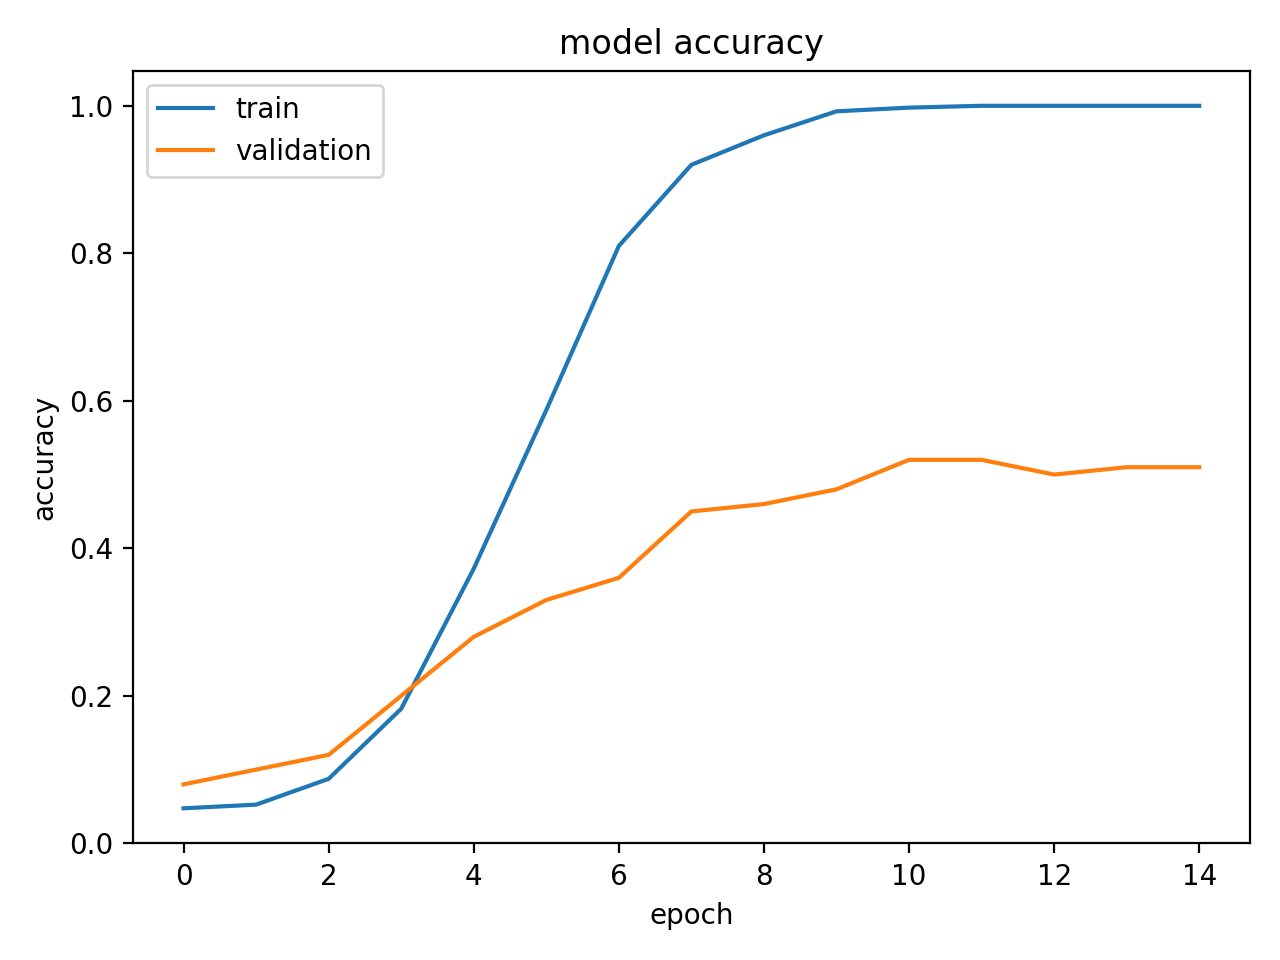
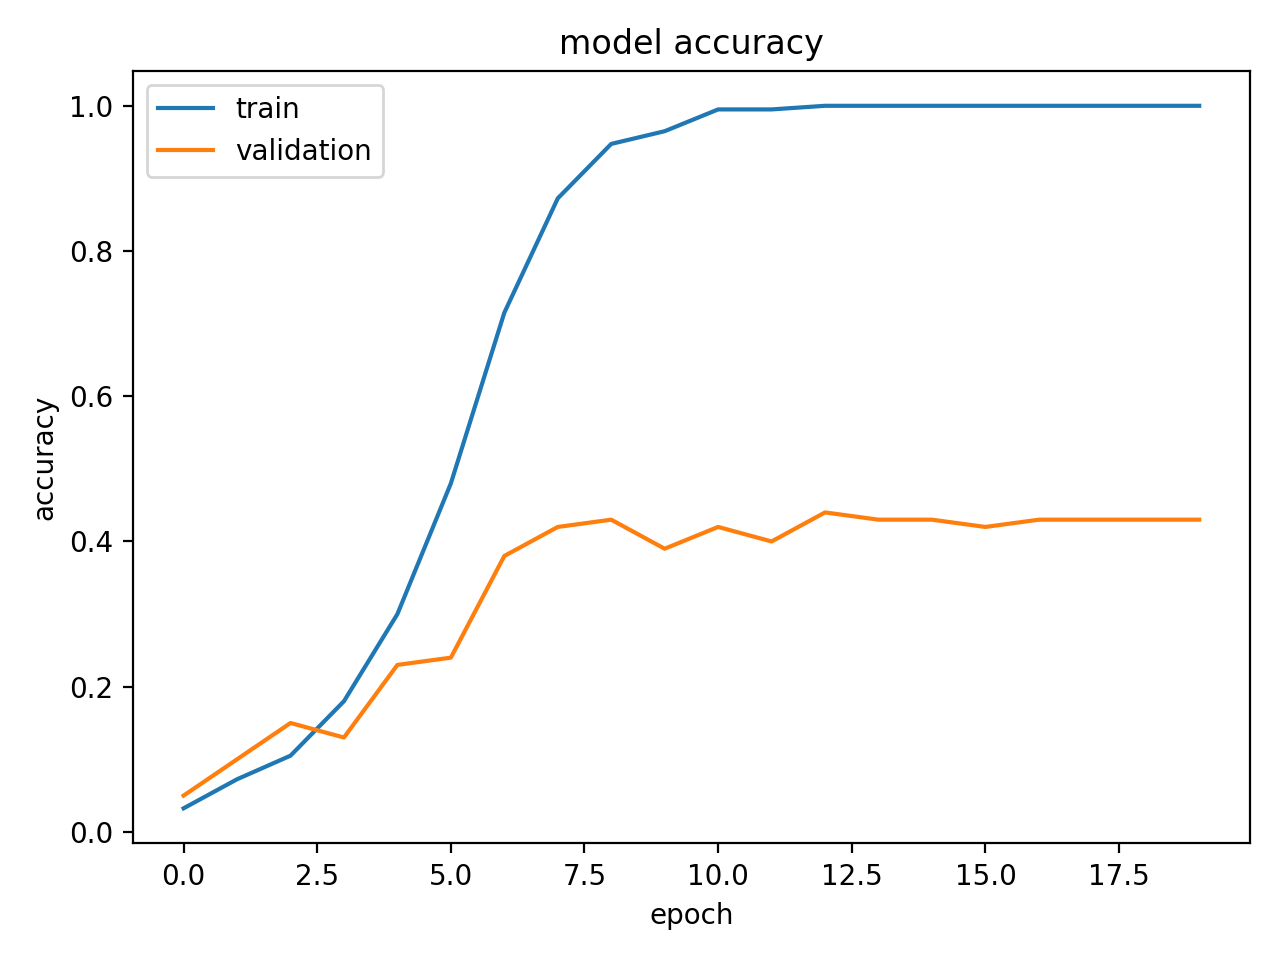
finished testing

diff --git a/final_modelling.py b/final_modelling.py
@@ -1,29 +1,31 @@
 import glob
 import os
+import time
 from pathlib import Path
+
+import matplotlib
 import numpy as np
-import sounddevice as sd
-import soundfile as sf
 from keras.layers import Dense, Activation, Flatten, Conv2D, InputLayer, MaxPooling2D
 from keras.models import Sequential
 from keras.optimizers import Adam
 from keras.utils import to_categorical
 from sklearn import metrics
+from sklearn.metrics import ConfusionMatrixDisplay
 from sklearn.model_selection import train_test_split
 from sklearn.preprocessing import LabelEncoder
-from sklearn.metrics import ConfusionMatrixDisplay
-import matplotlib
+
 matplotlib.use("Agg")
 import matplotlib.pyplot as plt
 
-import features
 MAX_FRAMES = 0
+
+
 def load_npy(directory):
     global MAX_FRAMES
     npy_files = sorted(glob.glob(directory + "/*.npy"))
     MAX_FRAMES = max([np.load(npy).shape[1] for npy in npy_files])
 
-    labels =[]
+    labels = []
     data = []
     for mfcc_file in npy_files:
         mfcc_data = np.load(mfcc_file).astype(np.float32)
@@ -41,7 +43,8 @@ def load_npy(directory):
     data = data / (scale + 1e-8)
     # Add channel dimension for Conv2D: (N, D, T, 1)
     data = data[..., np.newaxis]
-    return data,labels
+    return data, labels
+
 
 # Read class list; keep lower-case consistent
 name_file = open("NAMES.txt")
@@ -52,9 +55,7 @@ names = [name.strip().lower() for name in name_file.readlines()]
 
 # Unify the time dimension (number of frames)
 
-data,labels = load_npy('data/features/audio')
-
-
+data, labels = load_npy('data/features/audio')
 
 # --------- Label encoding ----------
 LE = LabelEncoder()
@@ -63,8 +64,9 @@ labels = to_categorical(LE.transform(labels), num_classes=len(names))
 
 # --------- Split data ----------
 X_train, X_val, y_train, y_val = train_test_split(
-    data, labels, test_size=0.2, random_state=0, stratify=labels
+    data, labels, test_size=0.2, stratify=labels
 )
+
 
 # --------- Build model ----------
 def create_model():
@@ -72,26 +74,28 @@ def create_model():
     D = data.shape[1]
     T = data.shape[2]
     model = Sequential()
-    model.add(InputLayer(input_shape=(D, T, 1)))
-    model.add(Conv2D(64, (3, 3), activation='relu')) #64 try 32
+    model.add(InputLayer(shape=(D, T, 1)))
+    model.add(Conv2D(64, (3, 3), activation='relu'))  # 64 try 32
     model.add(MaxPooling2D(pool_size=(3, 3)))
     model.add(Flatten())
-    model.add(Dense(512))  # originally 512, was overfitting
+    model.add(Dense(256))  # originally 512, was overfitting
     model.add(Activation('relu'))
     model.add(Dense(num_classes))
     model.add(Activation('softmax'))
     return model
 
+
 model = create_model()
 
-
-TEST_NUM = 4
+TEST_NUM = 16
 try:
-    graph_dir = f"graphs/test{TEST_NUM}/"
-    os.mkdir(graph_dir)
-    print(f"Directory '{graph_dir}' created successfully.")
+    if TEST_NUM != 0:
+        graph_dir = f"graphs/test{TEST_NUM}/"
+        os.mkdir(graph_dir)
+        print(f"Directory '{graph_dir}' created successfully.")
 except FileExistsError:
     print(f"Directory '{graph_dir}' already exists.")
+    input('press enter to confirm')
 except PermissionError:
     print(f"Permission denied: Unable to create '{graph_dir}'.")
 except Exception as e:
@@ -100,16 +104,19 @@ except Exception as e:
 # --------- Train / Load weights ----------
 training = True
 if training:
-    model.compile(loss='categorical_crossentropy', optimizer=Adam(learning_rate=0.01), metrics=['accuracy'])  #original 0.01
+    start_time = time.time()
+    model.compile(loss='categorical_crossentropy', optimizer=Adam(learning_rate=0.0075),
+                  metrics=['accuracy'])  # original 0.01
     model.summary()
 
-    EPOCHS = 15 # original 25 try 10
+    EPOCHS = 20  # original 25 try 10
     BATCH_SIZE = 16
     history = model.fit(
         X_train, y_train,
         validation_data=(X_val, y_val),
         epochs=EPOCHS, batch_size=BATCH_SIZE, verbose=1
     )
+    end_time = time.time()
     model.save_weights('model.weights.h5')
 
     # Training curves (plot acc/loss only)
@@ -121,7 +128,7 @@ if training:
     plt.xlabel('epoch')
     plt.legend(['train', 'validation'], loc='upper left')
     plt.tight_layout()
-    plt.savefig(f"graphs/test{TEST_NUM}/train_accuracy.png", dpi=200)
+    plt.savefig(f"graphs/test{TEST_NUM}/train_accuracy{TEST_NUM}.png", dpi=200)
     plt.close()
 
     plt.figure()
@@ -132,31 +139,32 @@ if training:
     plt.xlabel('epoch')
     plt.legend(['train', 'validation'], loc='upper left')
     plt.tight_layout()
-    plt.savefig(f"graphs/test{TEST_NUM}/train_loss.png", dpi=200)
+    plt.savefig(f"graphs/test{TEST_NUM}/train_loss{TEST_NUM}.png", dpi=200)
     plt.close()
-
+    print(f'Time: {(end_time - start_time):.2f}s')
 if not training:
     model.load_weights('model.weights.h5')
 
 # --------- Evaluation ----------
 test_data, test_labels = load_npy('test/features')
 test_labels = to_categorical(LE.transform(test_labels), num_classes=len(names))
-# _train, X_test, _val, y_test = train_test_split(test_data, test_labels, test_size=0.8, random_state=0, stratify=test_labels)
 predicted_probs = model.predict(test_data, verbose=0)
 predicted = np.argmax(predicted_probs, axis=1)
 actual = np.argmax(test_labels, axis=1)
 accuracy = metrics.accuracy_score(actual, predicted)
-print(f'Accuracy: {accuracy * 100:.2f}%')
+print(f'Accuracy: {int(accuracy * 100)}%')
 
 # Single-sample prediction example
-predicted_prob = model.predict(test_data[0:1], verbose=0)
-predicted_id = np.argmax(predicted_prob, axis=1)
-predicted_class = LE.inverse_transform(predicted_id)
-print("predicted:", predicted_class)
-actual_label = test_labels[0]
-actual_class = LE.inverse_transform([np.argmax(actual_label)])
-print('actual:', actual_class)
-
+_x, xtest, _y, ytest = train_test_split(test_data, test_labels, test_size=0.1)
+predicted_probs = model.predict(xtest, verbose=0)
+predicted_ids = np.argmax(predicted_probs, axis=1)
+predicted_class = LE.inverse_transform(predicted_ids)
+# print("predicted:", predicted_class)
+actual_class = LE.inverse_transform(np.argmax(ytest, axis=1))
+# print('actual:', actual_class)
+print('predicted actual')
+for i in range(len(predicted_class)):
+    print(predicted_class[i], actual_class[i])
 # Confusion matrix (after evaluation)
 confusion_matrix = metrics.confusion_matrix(actual, predicted, labels=range(len(names)))
 # confusion_matrix = confusion_matrix /np.max(confusion_matrix)

diff --git a/features.py b/features.py
@@ -1,13 +1,14 @@
 # features.py
-import numpy as np
-import soundfile as sf
 from pathlib import Path
 
+import numpy as np
+import soundfile as sf
 
-AUDIO_ROOT = Path("test/audio")
-FEAT_ROOT  = Path("test/features")
+AUDIO_ROOT = Path("data/audio")
+FEAT_ROOT = Path("data/features")
 
-def spectral_subtraction(S, noise_frames=6, alpha=1.5, beta=0.01):
+
+def spectral_subtraction(s, noise_frames=6, alpha=1.5, beta=0.01):
     """
     Simple spectral subtraction (operated on magnitude spectrum)
     S: magnitude spectrum (freq_bins, frames)
@@ -16,51 +17,61 @@ def spectral_subtraction(S, noise_frames=6, alpha=1.5, beta=0.01):
     beta: spectral floor factor
     """
     # Estimate average noise magnitude spectrum using the first noise_frames frames
-    noise_mag = np.mean(S[:, :min(noise_frames, S.shape[1])], axis=1, keepdims=True)
+    noise_mag = np.mean(s[:, :min(noise_frames, s.shape[1])], axis=1, keepdims=True)
     # Spectral subtraction
-    S_clean = S - alpha * noise_mag
-    S_clean = np.maximum(S_clean, beta * S)  # prevent negative spectrum, apply spectral floor
-    return S_clean
+    s_clean = s - alpha * noise_mag
+    s_clean = np.maximum(s_clean, beta * s)  # prevent negative spectrum, apply spectral floor
+    return s_clean
 
-def frame_signal(x, fs=16000, win_ms=25, hop_ms=10):
+
+def frame_signal(x, fs=16000, win_ms=25, hop_ms=5):
     # Speech framing: 25 ms window, 10 ms hop (for MFCC)
     win = int(fs * win_ms / 1000)
     hop = int(fs * hop_ms / 1000)
     n_frames = 1 + max(0, (len(x) - win) // hop)
-    frames = np.stack([x[i*hop : i*hop + win] for i in range(n_frames)], axis=1)  # shape (win, T)
+    frames = np.stack([x[i * hop: i * hop + win] for i in range(n_frames)], axis=1)  # shape (win, T)
     return frames
+
 
 def mag_phase(speech_frame):
     # Hamming window + FFT -> magnitude & phase (Lab 2)
     windowed = speech_frame * np.hamming(len(speech_frame))
-    X = np.fft.rfft(windowed, n=512)                         # 512-point FFT
-    mag = np.abs(X)
-    phase = np.angle(X)
+    x = np.fft.rfft(windowed, n=512)  # 512-point FFT
+    mag = np.abs(x)
+    phase = np.angle(x)
     return mag, phase
 
-def mel_filterbank(n_fft=512, sr=16000, n_mels=40, fmin=0, fmax=None):
+
+def mel_filterbank(n_fft=512, sr=16000, n_mels=20, fmin=0, fmax=None):
     # Build triangular Mel filterbank matrix H (shape: n_mels × (n_fft/2+1)) (Lab 3)
-    if fmax is None: fmax = sr/2
+    if fmax is None: fmax = sr / 2
+
     # Hz <-> Mel conversions (Lab 3)
-    def hz2mel(f): return 2595.0 * np.log10(1.0 + f / 700.0)
-    def mel2hz(m): return 700.0 * (10**(m/2595.0) - 1.0)
+    def hz2mel(f):
+        return 2595.0 * np.log10(1.0 + f / 700.0)
+
+    def mel2hz(m):
+        return 700.0 * (10 ** (m / 2595.0) - 1.0)
+
     mmin, mmax = hz2mel(fmin), hz2mel(fmax)
     m_points = np.linspace(mmin, mmax, n_mels + 2)  # include edges
     f_points = mel2hz(m_points)
-    bins = np.floor((n_fft//2 + 1) * f_points / (sr/2)).astype(int)  # Hz -> spectrum bin
+    bins = np.floor((n_fft // 2 + 1) * f_points / (sr / 2)).astype(int)  # Hz -> spectrum bin
 
-    H = np.zeros((n_mels, n_fft//2 + 1), dtype=np.float32)
-    for m in range(1, n_mels+1):
-        f_left, f_center, f_right = bins[m-1], bins[m], bins[m+1]
+    H = np.zeros((n_mels, n_fft // 2 + 1), dtype=np.float32)
+    for m in range(1, n_mels + 1):
+        f_left, f_center, f_right = bins[m - 1], bins[m], bins[m + 1]
         if f_center == f_left: f_center += 1  # avoid zero width
         if f_right == f_center: f_right += 1
         # left slope
-        H[m-1, f_left:f_center] = (np.arange(f_left, f_center) - f_left) / (f_center - f_left)
+        H[m - 1, f_left:f_center] = (np.arange(f_left, f_center) - f_left) / (f_center - f_left)
         # right slope
-        H[m-1, f_center:f_right] = (f_right - np.arange(f_center, f_right)) / (f_right - f_center)
+        H[m - 1, f_center:f_right] = (f_right - np.arange(f_center, f_right)) / (f_right - f_center)
     return H
 
+
 _MEL_H = mel_filterbank()
+
 
 def dct(x, axis=0):
     """
@@ -77,18 +88,17 @@ def dct(x, axis=0):
     basis[0, :] *= 1.0 / np.sqrt(2.0)
 
     # Move target axis to last, apply tensordot, then move back
-    x_move = np.moveaxis(x, axis, -1)                # [..., N]
+    x_move = np.moveaxis(x, axis, -1)  # [..., N]
     y = np.tensordot(x_move, basis, axes=([-1], [0]))  # [..., N]
     y = np.moveaxis(y, -1, axis)
     return y
 
-def wav_to_mfcc(wav_path, sr=16000, add_energy=True, add_deltas=True, denoise=False, alpha=1.5, beta=0.01, noise_frames=6):
-    """
 
-    """
+def wav_to_mfcc(wav_path, sr=16000, add_energy=True, add_deltas=True, denoise=False, alpha=1.5, beta=0.01,
+                noise_frames=6):
     x, fs = sf.read(wav_path, dtype='float32')
     assert fs == sr, f"Sample rate mismatch: {fs} != {sr}"
-    if x.ndim > 1: x = x[:,0]
+    if x.ndim > 1: x = x[:, 0]
     frames = frame_signal(x, fs=sr, win_ms=25, hop_ms=10)
 
     mags = []
@@ -109,19 +119,21 @@ def wav_to_mfcc(wav_path, sr=16000, add_energy=True, add_deltas=True, denoise=Fa
     feats = mfcc
 
     if add_energy:
-        log_energy = np.log((frames**2).sum(axis=0) + 1e-10)[None, :]
+        log_energy = np.log((frames ** 2).sum(axis=0) + 1e-10)[None, :]
         feats = np.concatenate([feats, log_energy], axis=0)
 
     if add_deltas:
         def delta(F):
             # Simple ±1 frame central difference
-            pad = np.pad(F, ((0,0),(1,1)), mode='edge')
-            return (pad[:,2:] - pad[:,:-2]) * 0.5
+            pad = np.pad(F, ((0, 0), (1, 1)), mode='edge')
+            return (pad[:, 2:] - pad[:, :-2]) * 0.5
+
         d = delta(feats)
         dd = delta(d)
         feats = np.concatenate([feats, d, dd], axis=0)
 
-    return feats.astype(np.float32)   # shape: [D, T]
+    return feats.astype(np.float32)  # shape: [D, T]
+
 
 def main(audio_root: Path, sr: int = 16000, denoise=False, alpha=1.5, beta=0.01, noise_frames=6):
     FEAT_ROOT.mkdir(parents=True, exist_ok=True)
@@ -145,6 +157,7 @@ def main(audio_root: Path, sr: int = 16000, denoise=False, alpha=1.5, beta=0.01,
         # Simple progress display
         if i % 20 == 0 or i == len(wavs):
             print(f"[{i}/{len(wavs)}] {wav_path.name}")
+
 
 if __name__ == "__main__":
     DENOISE = False  # Whether to enable spectral subtraction

diff --git a/speech_collector.py b/speech_collector.py
@@ -31,21 +31,31 @@ FS = 16000
 SECONDS = 3
 
 running = len(names) > 0
-
+random = False
 while running:
-    name = names[randint(0, len(names) - 1)]  # get a random name
-    while names_dict[name] >= TARGET and len(names) > 0:
-        names.remove(name)  # remove any completed names
-        print(f'{name} is completed')
-        try:
-            name = names[randint(0, len(names) - 1)]
-        except:
-            print('cant choose a name')
-    if len(names) == 0:
-        print('All names complete')
-        sd.wait()
-        break
-    cmd = input(f"{name} ({names_dict[name]}/{TARGET})").strip()
+    name = 'AAAAAAAA'
+    if random:
+        while names_dict[name] >= TARGET and len(names) > 0:
+            names.remove(name)  # remove any completed names
+            print(f'{name} is completed')
+            try:
+                name = names[randint(0, len(names) - 1)]
+            except IndexError:
+                print('no names left')
+            except:
+                print('something went wrong')
+        if len(names) == 0:
+            print('All names complete')
+            sd.wait()
+            break
+        cmd = input(f"{name} ({names_dict[name]}/{TARGET})").strip()
+    else:
+        while name not in names and running:
+            name = input('please enter a name: ').strip().title()
+            if name == 'Exit':
+                cmd = 'exit'
+                break
+            cmd = ''
     if cmd == "":  # enter to record, 'p' to play recording after
         # record
         sd.stop()
